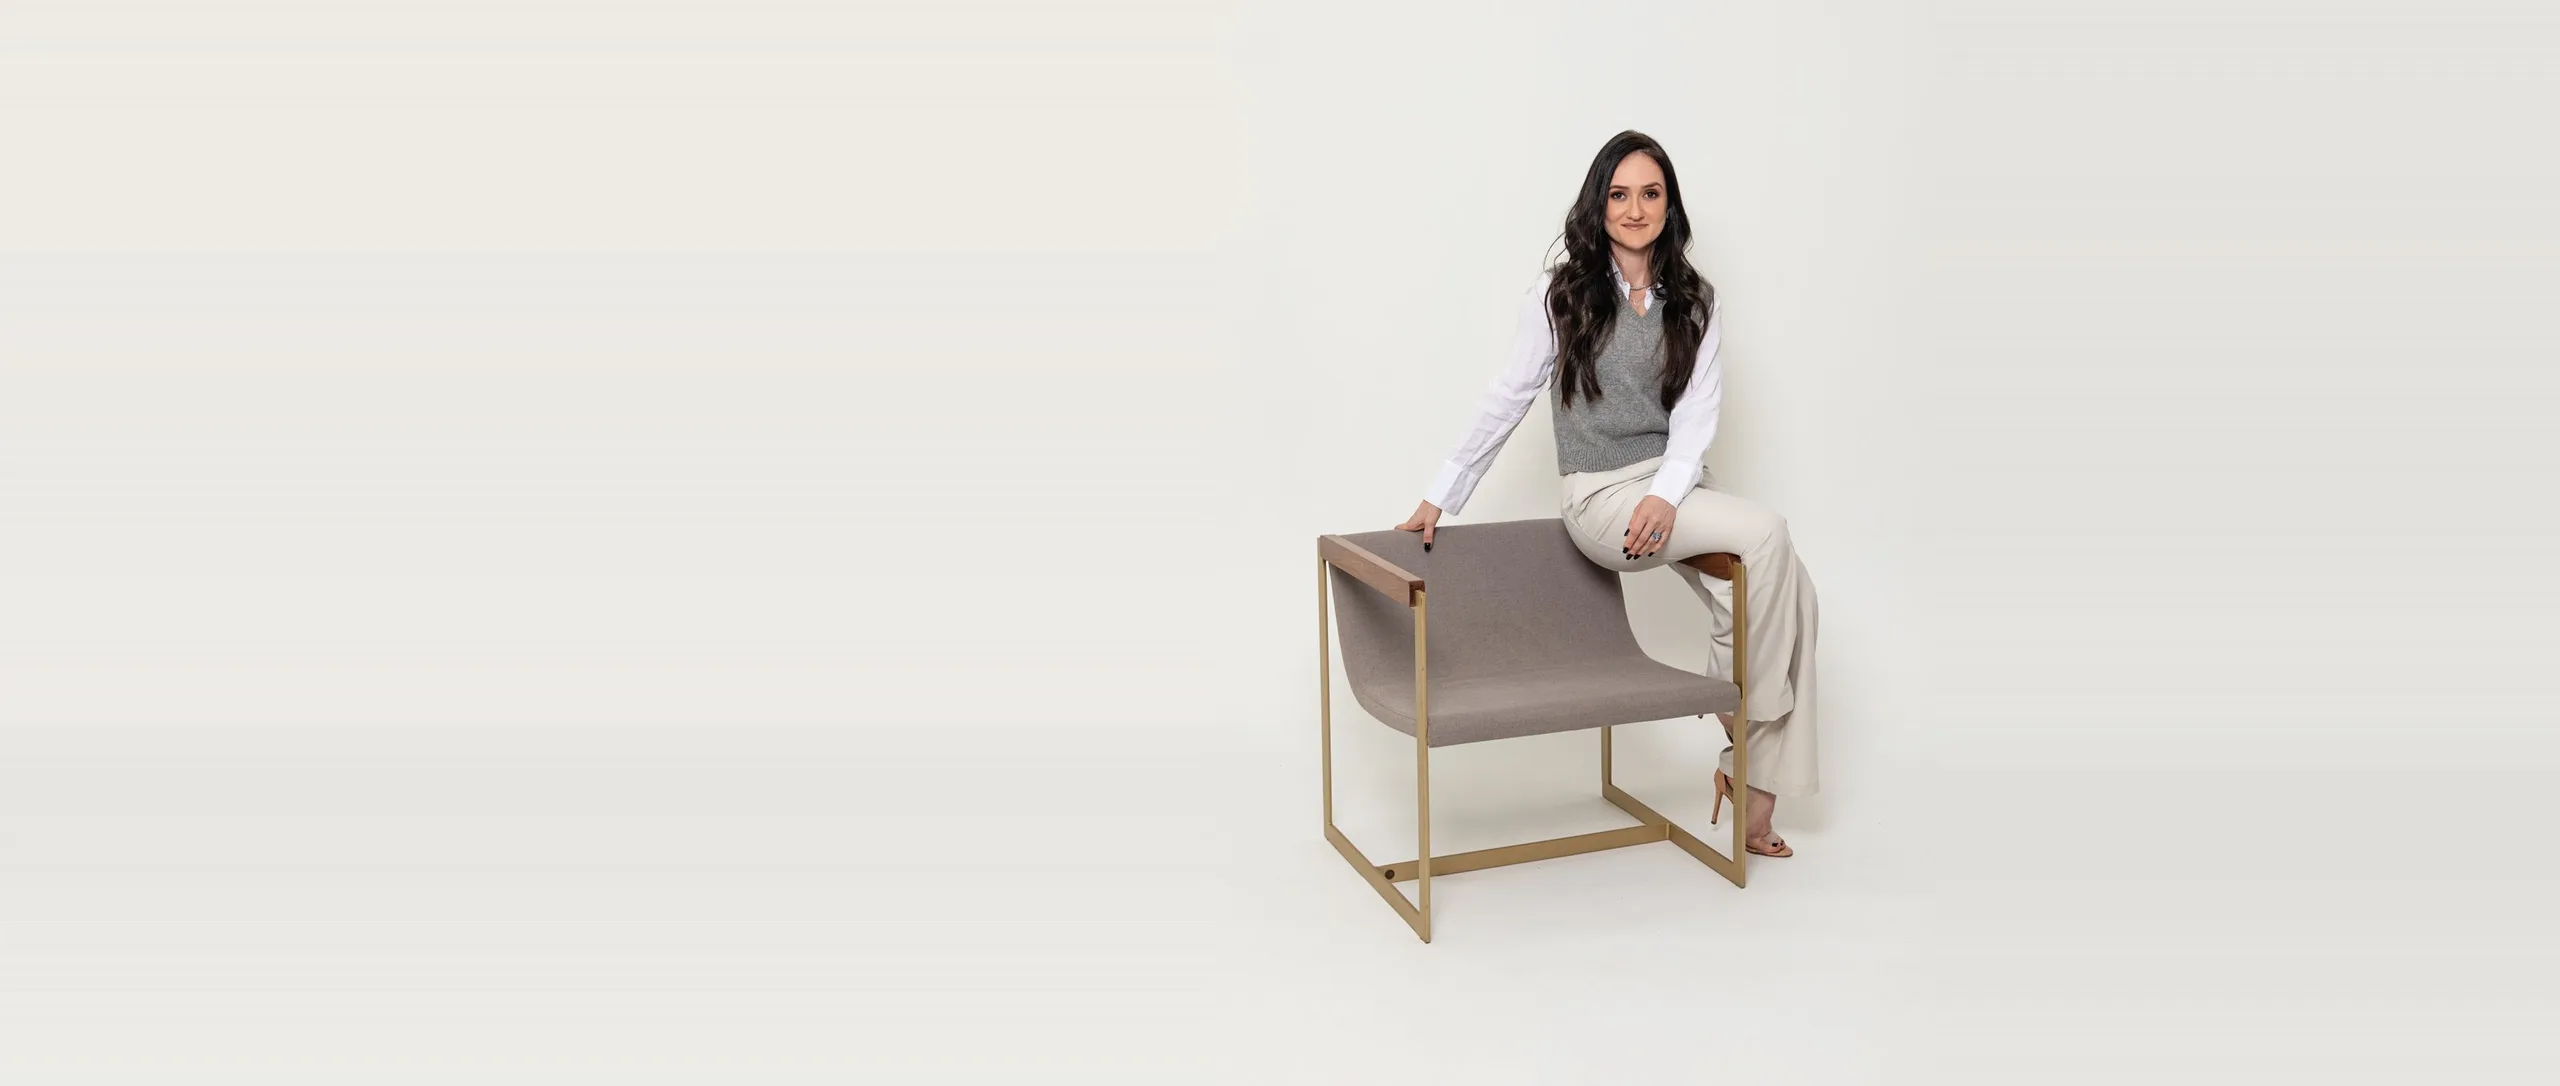
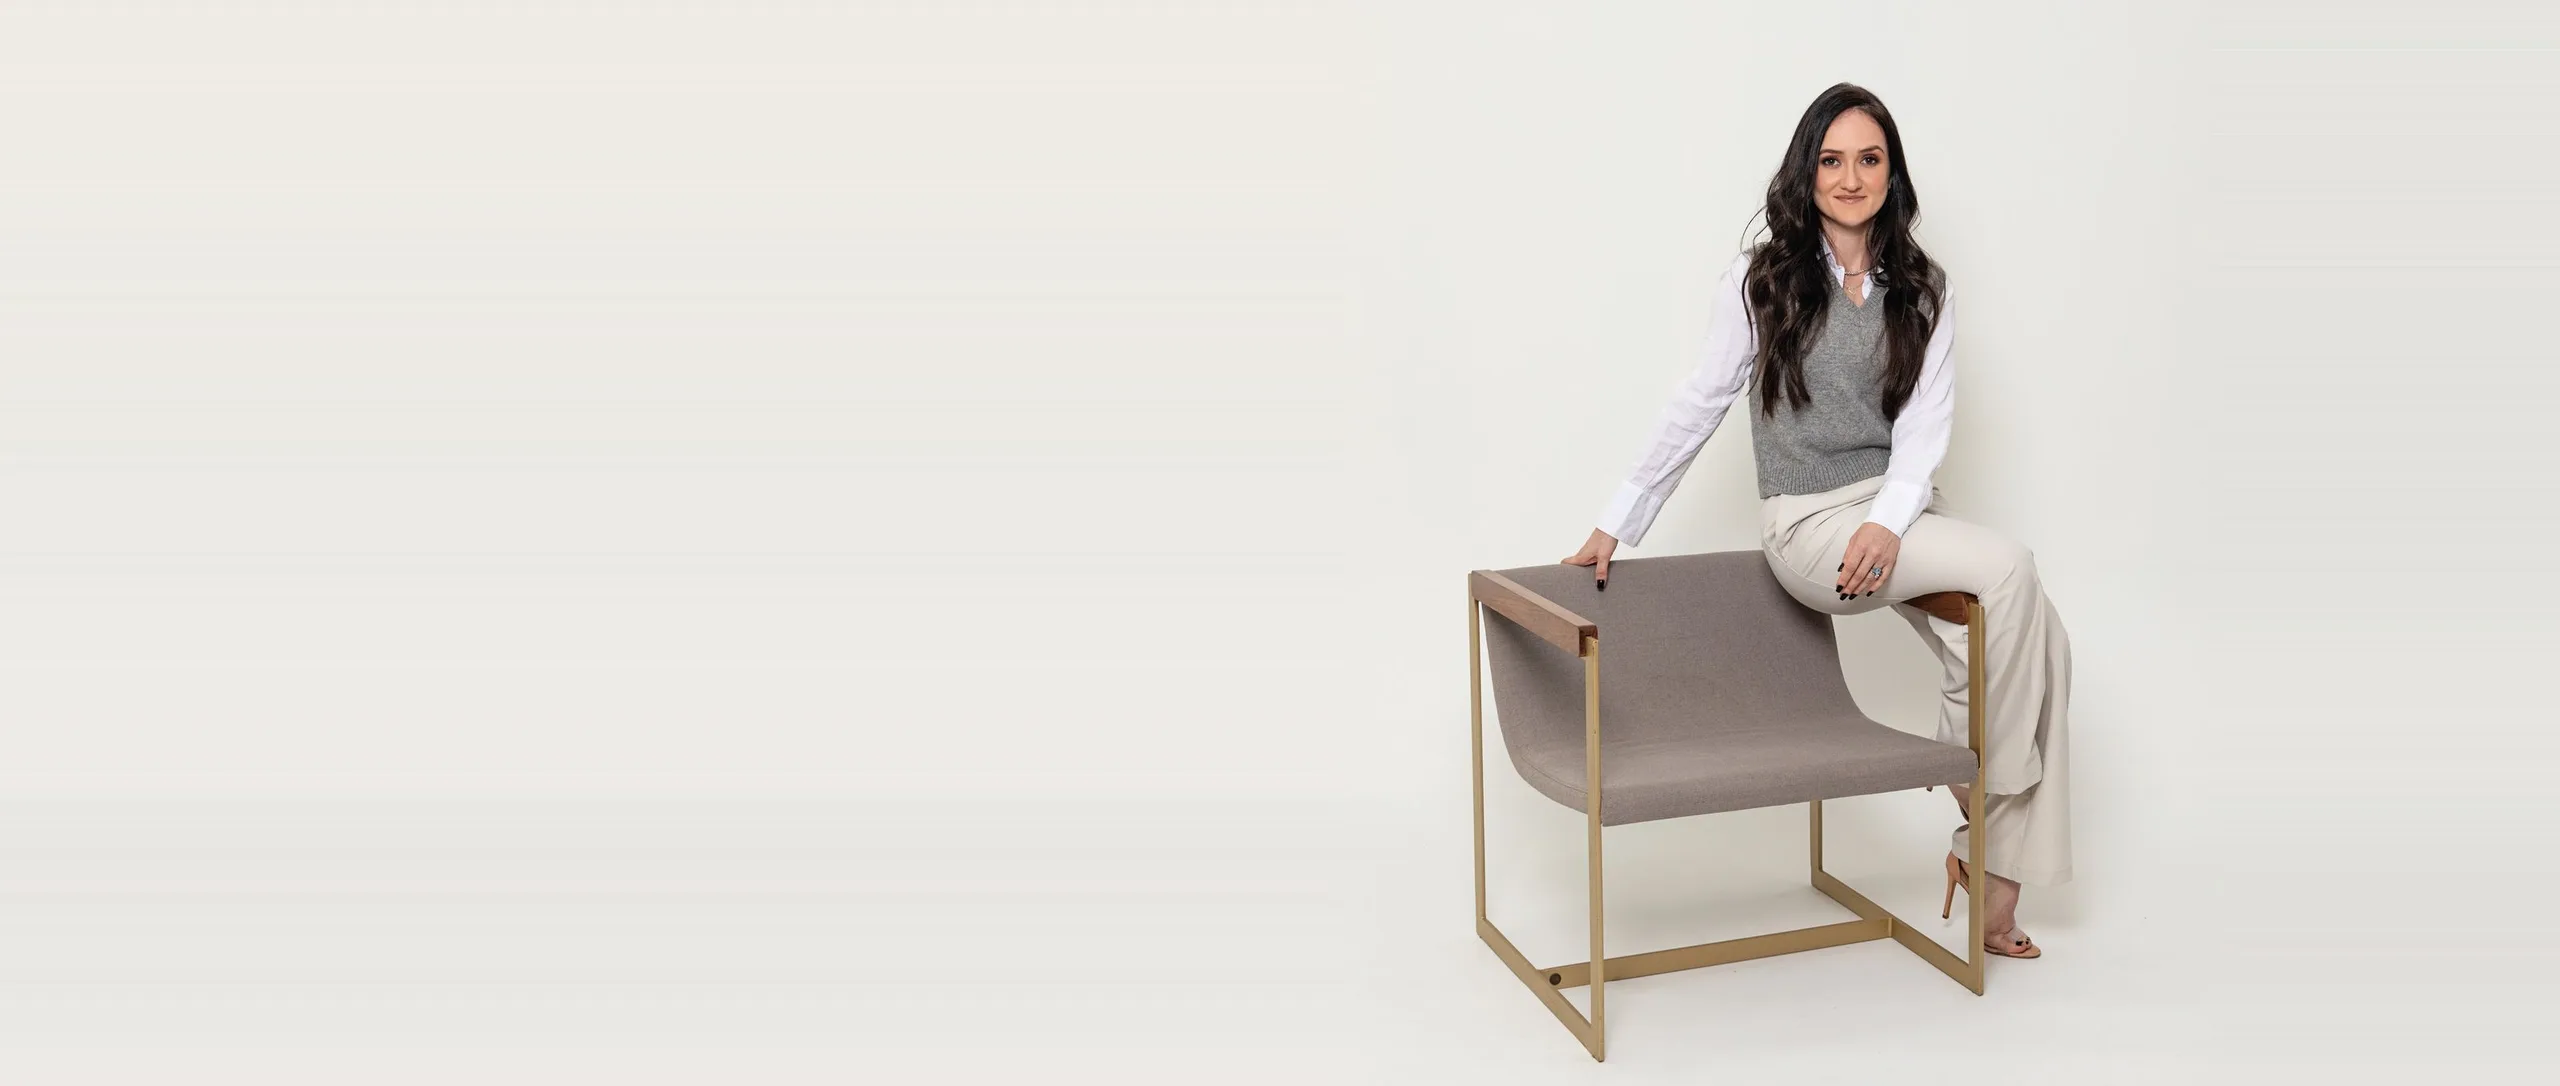
feat(hero): amplia imagem da medica, afasta do texto e desativa animacao de zoom

Changed region(s): [[0.5, 0.0608, 0.8125, 0.9724]]

diff --git a/src/components/Hero/styles.css b/src/components/Hero/styles.css
@@ -29,20 +29,17 @@
 .hero__bg-wrapper {
 	position: absolute;
 	inset: 0;
-	width: 112%;
-	height: 120%;
-	top: -10%;
+	width: 100%;
+	height: 100%;
+	top: 0;
 	left: 0;
-	will-change: transform;
 }
 
 .hero__bg-image {
 	width: 100%;
 	height: 100%;
 	object-fit: cover;
-	object-position: 80% 25%;
-	animation: zoomOut 30s ease-in-out infinite alternate;
-	will-change: transform;
+	object-position: 70% center;
 }
 
 /* Overlay claro que garante contraste com nitidez para a imagem */
@@ -291,17 +288,6 @@
 	transform: translateY(-1px);
 }
 
-/* --- Animação --- */
-@keyframes zoomOut {
-	from {
-		transform: scale(1.12);
-	}
-
-	to {
-		transform: scale(1);
-	}
-}
-
 /* ============================================================
    RESPONSIVO
    ============================================================ */
@@ -319,12 +305,12 @@
 	}
 
 	.hero__bg-image {
-		object-position: 61.5% 20%;
+		object-position: 73% center;
 	}
 
 	.hero__bg-overlay {
 		background:
-			radial-gradient(circle at 61.5% 35%, rgba(12, 9, 7, 0.45) 0%, rgba(12, 9, 7, 0.75) 70%, rgba(12, 9, 7, 0.92) 100%),
+			radial-gradient(circle at 50% 35%, rgba(12, 9, 7, 0.45) 0%, rgba(12, 9, 7, 0.75) 70%, rgba(12, 9, 7, 0.92) 100%),
 			linear-gradient(180deg,
 				rgba(12, 9, 7, 0.50) 0%,
 				rgba(12, 9, 7, 0.65) 40%,
@@ -398,7 +384,7 @@
 	}
 
 	.hero__bg-image {
-		object-position: 61.5% 25%;
+		object-position: 74% 15%;
 	}
 
 	.hero__container {
